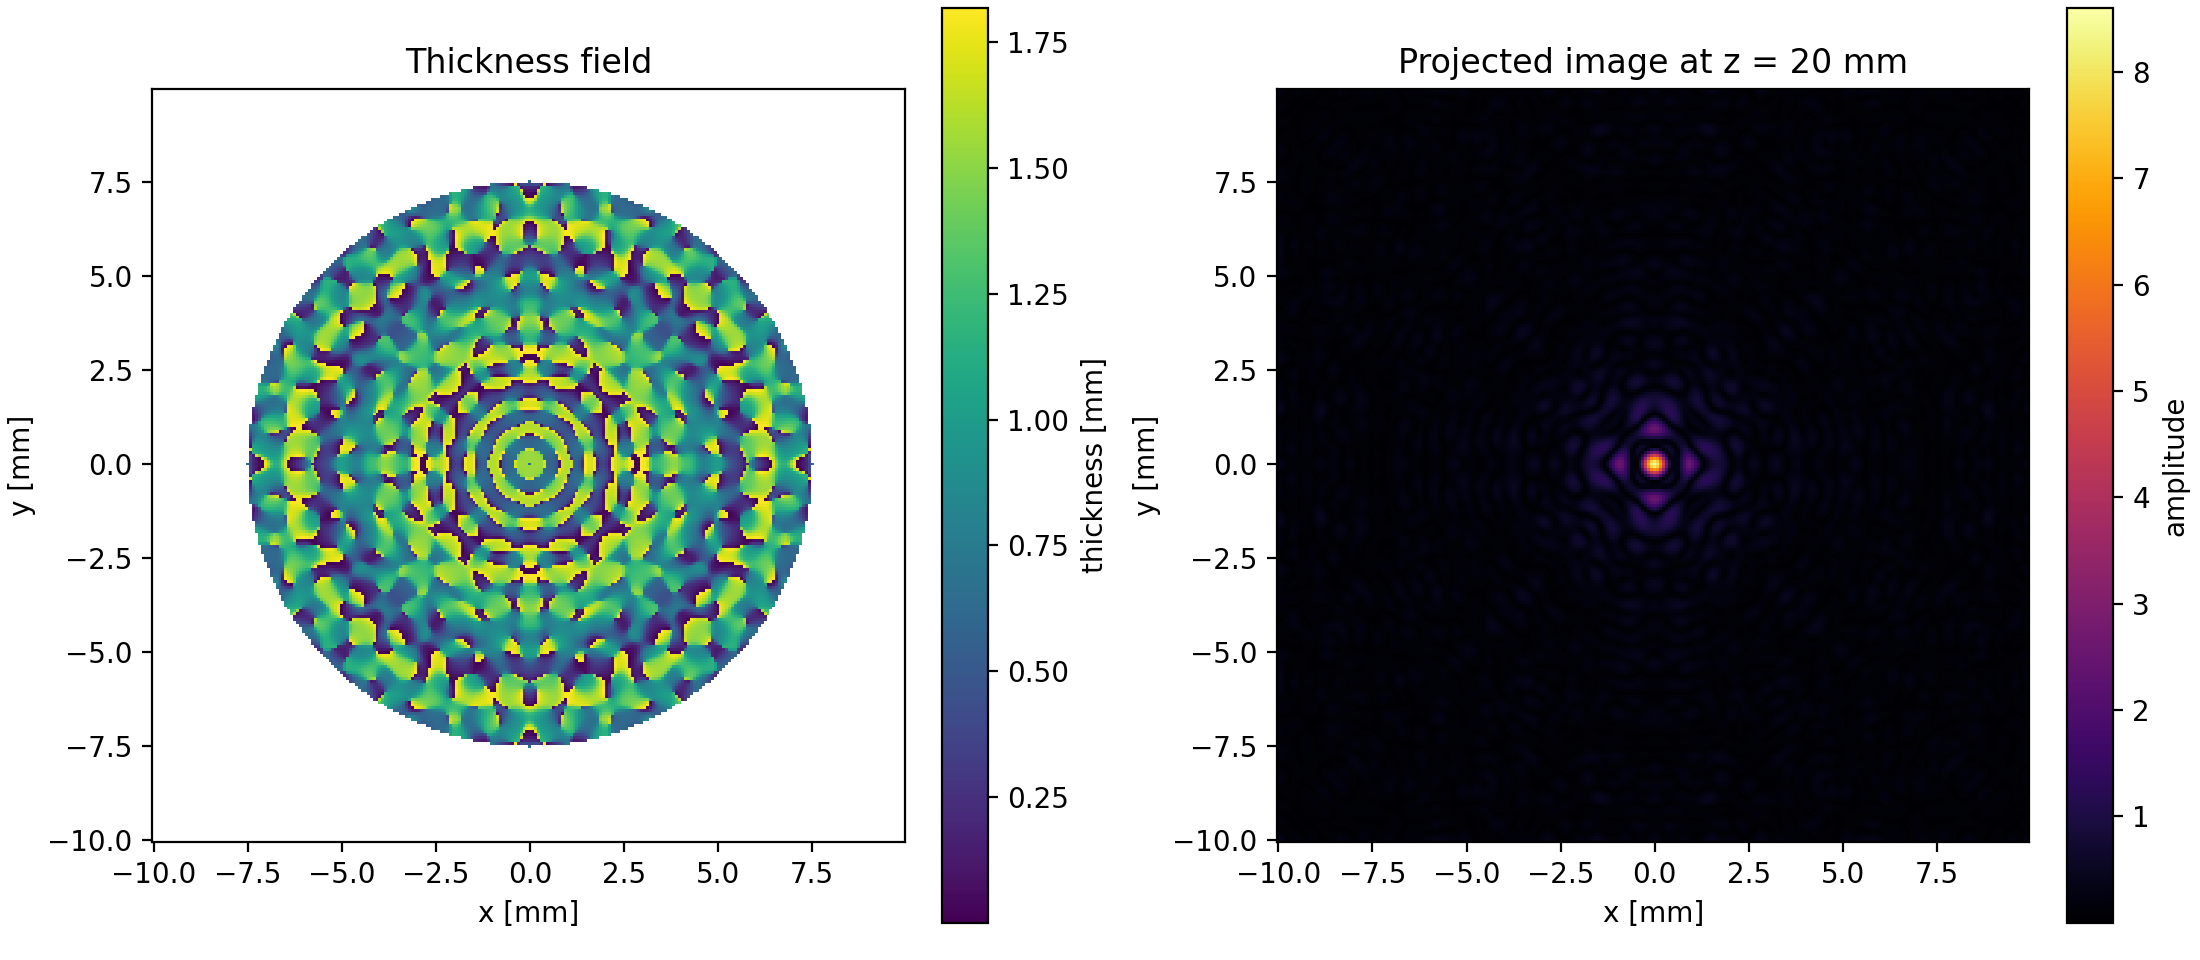
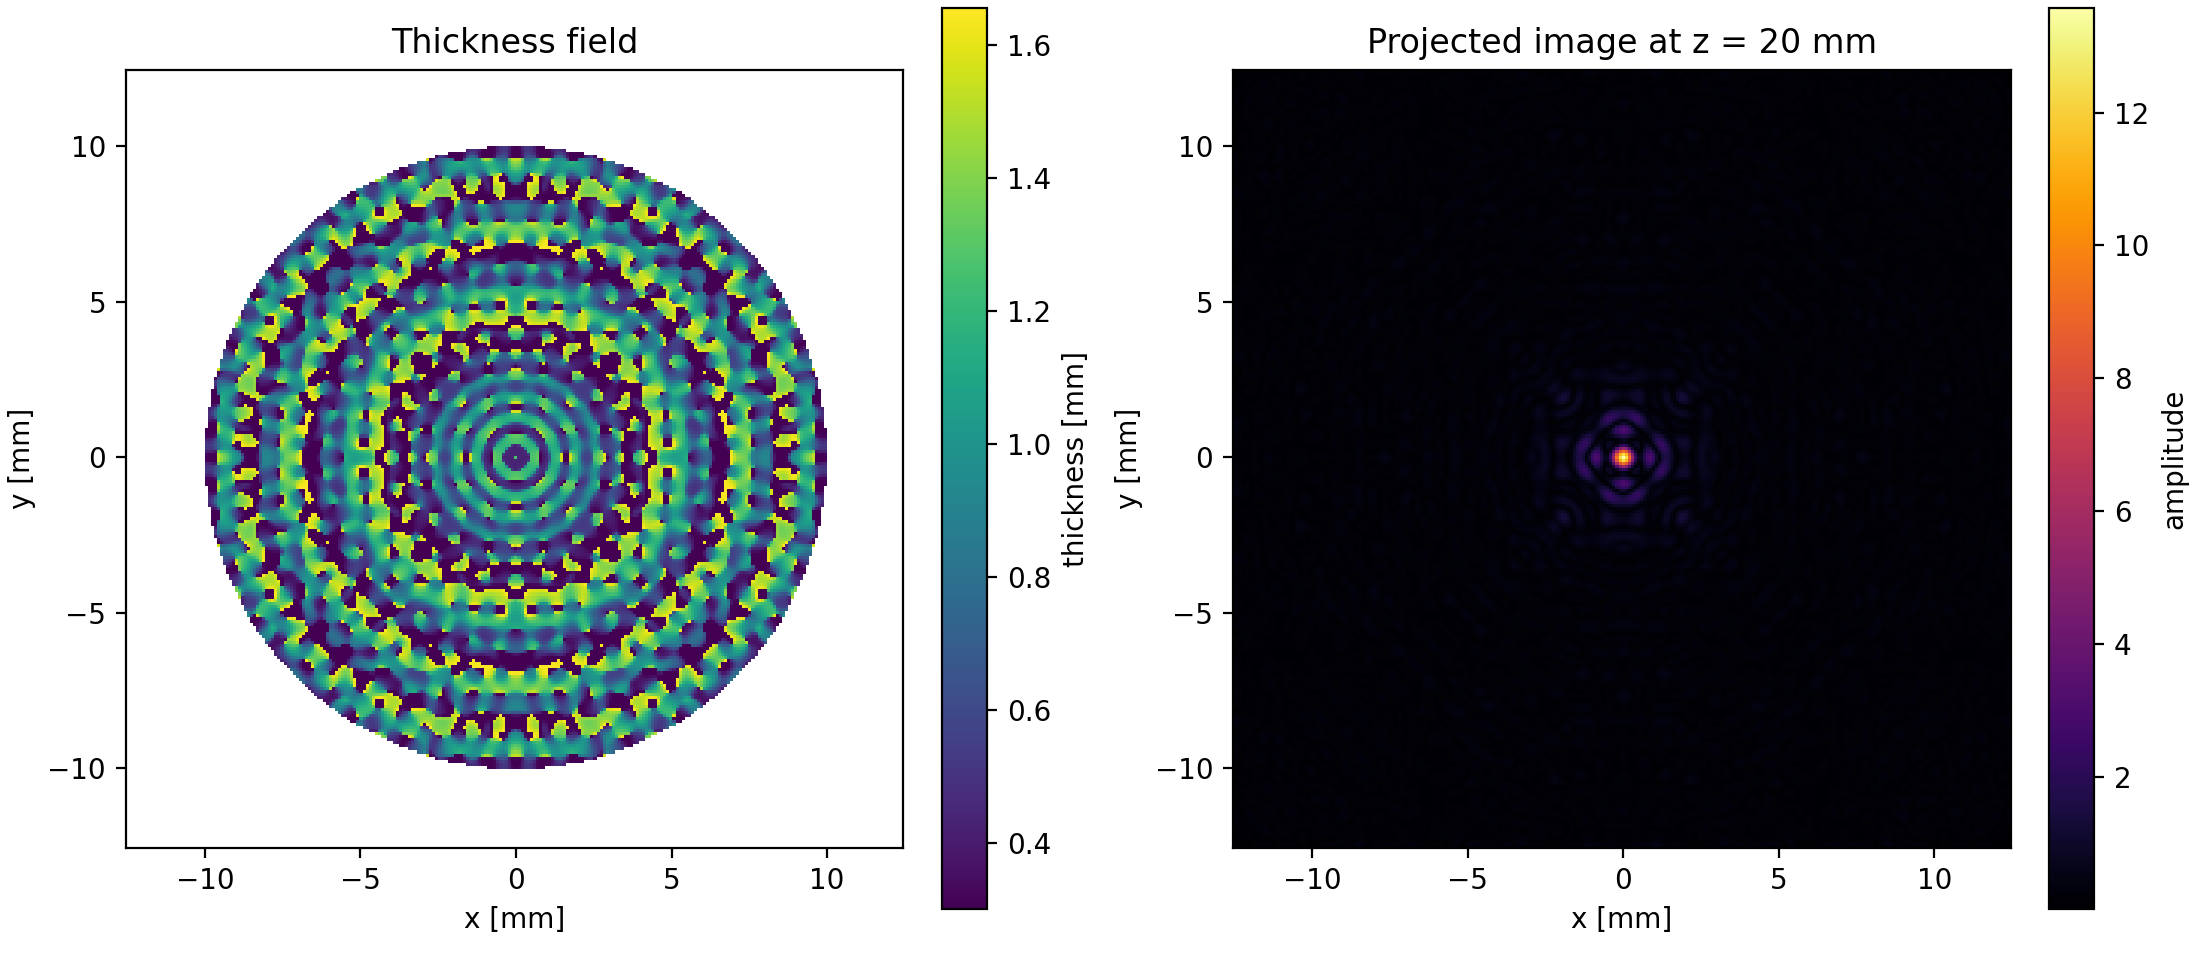
Updates

diff --git a/hologramGen.py b/hologramGen.py
@@ -57,6 +57,7 @@ def design_hologram_single_plane(
     km,
     actuator_radius,
     n_iter=300,
+    Tmin=0.4e-3,
     Tmax=3e-3,
 ):
     N = p0_amp.shape[0]
@@ -68,7 +69,7 @@ def design_hologram_single_plane(
     p_in = actuator_mask.astype(np.complex128)
 
     T = np.zeros_like(p0_amp, dtype=float)
-    T[actuator_mask] = Tmax
+    T[actuator_mask] = Tmin
     T[~actuator_mask] = np.nan
 
     A_tgt = np.asarray(target_at_z, dtype=float)
@@ -96,14 +97,114 @@ def design_hologram_single_plane(
         dK = km - kh
         phase = np.angle(H_req)
         T = np.mod(phase, 2 * np.pi) / (dK + eps)
+        T[actuator_mask] = np.clip(T[actuator_mask], Tmin, Tmax)
         T[~actuator_mask] = np.nan
 
     return T, history
 
 
+def facet_normal(v1, v2, v3):
+    normal = np.cross(v2 - v1, v3 - v1)
+    norm = np.linalg.norm(normal)
+    if norm == 0:
+        return np.zeros(3)
+    return normal / norm
+
+
+def write_ascii_stl(path, triangles, solid_name="hologram"):
+    with open(path, "w", encoding="ascii") as f:
+        f.write(f"solid {solid_name}\n")
+        for tri in triangles:
+            v1, v2, v3 = tri
+            normal = facet_normal(v1, v2, v3)
+            f.write(
+                f"  facet normal {normal[0]:.9e} {normal[1]:.9e} {normal[2]:.9e}\n"
+            )
+            f.write("    outer loop\n")
+            for vertex in tri:
+                f.write(
+                    f"      vertex {vertex[0]:.9e} {vertex[1]:.9e} {vertex[2]:.9e}\n"
+                )
+            f.write("    endloop\n")
+            f.write("  endfacet\n")
+        f.write(f"endsolid {solid_name}\n")
+
+
+def export_hologram_stl(T, dx, output_path="hologram_output.stl"):
+    """
+    Export the circular hologram height field as a closed ASCII STL solid body.
+
+    STL coordinates are written in millimeters. NaN values in T are treated as
+    outside the printable hologram footprint. T is expected to already include
+    the physical base/minimum thickness.
+    """
+    height_mm = np.asarray(T, dtype=float) * 1e3
+    valid_vertices = np.isfinite(height_mm)
+    n = height_mm.shape[0]
+
+    x_mm = (np.arange(n) - n / 2) * dx * 1e3
+    y_mm = (np.arange(n) - n / 2) * dx * 1e3
+
+    top = np.zeros((n, n, 3), dtype=float)
+    bottom = np.zeros((n, n, 3), dtype=float)
+    for i, y in enumerate(y_mm):
+        for j, x in enumerate(x_mm):
+            z = height_mm[i, j] if valid_vertices[i, j] else 0.0
+            top[i, j] = (x, y, z)
+            bottom[i, j] = (x, y, 0.0)
+
+    valid_cells = (
+        valid_vertices[:-1, :-1]
+        & valid_vertices[1:, :-1]
+        & valid_vertices[:-1, 1:]
+        & valid_vertices[1:, 1:]
+    )
+
+    triangles = []
+    for i in range(n - 1):
+        for j in range(n - 1):
+            if not valid_cells[i, j]:
+                continue
+
+            tl = top[i, j]
+            tr = top[i, j + 1]
+            bl = top[i + 1, j]
+            br = top[i + 1, j + 1]
+            btl = bottom[i, j]
+            btr = bottom[i, j + 1]
+            bbl = bottom[i + 1, j]
+            bbr = bottom[i + 1, j + 1]
+
+            # Top surface, outward normal generally +z.
+            triangles.append((tl, tr, bl))
+            triangles.append((tr, br, bl))
+
+            # Flat bottom, outward normal -z.
+            triangles.append((btl, bbl, btr))
+            triangles.append((btr, bbl, bbr))
+
+            # Boundary walls. Each side is emitted only when its neighboring
+            # cell is outside the circular footprint, making a closed shell.
+            if i == 0 or not valid_cells[i - 1, j]:
+                triangles.append((tl, btl, tr))
+                triangles.append((tr, btl, btr))
+            if i == n - 2 or not valid_cells[i + 1, j]:
+                triangles.append((bl, br, bbl))
+                triangles.append((br, bbr, bbl))
+            if j == 0 or not valid_cells[i, j - 1]:
+                triangles.append((tl, bl, btl))
+                triangles.append((bl, bbl, btl))
+            if j == n - 2 or not valid_cells[i, j + 1]:
+                triangles.append((tr, btr, br))
+                triangles.append((br, btr, bbr))
+
+    write_ascii_stl(output_path, triangles)
+    return len(triangles)
+
+
 def main():
     N = 256
-    L = 0.02
+    L = 0.025
     dx = L / N
     x = (np.arange(N) - N / 2) * dx
     xv, yv = np.meshgrid(x, x, indexing="xy")
@@ -114,7 +215,7 @@ def main():
     lam_m = c_m / f
     km = 2 * np.pi / lam_m
 
-    c_h = 2400.0
+    c_h = 2550.0
     lam_h = c_h / f
     kh = 2 * np.pi / lam_h
 
@@ -123,7 +224,7 @@ def main():
     Zh = rho_h * c_h
     Zt = rho_t * 5900.0
 
-    actuator_radius = 7.5e-3
+    actuator_radius = 10e-3
     p0_amp = np.zeros_like(r, dtype=float)
     p0_amp[r <= actuator_radius] = 1.0
 
@@ -144,15 +245,18 @@ def main():
         km=km,
         actuator_radius=actuator_radius,
         n_iter=300,
+        Tmin=0.3e-3,
         Tmax=3e-3,
     )
 
     p_in = p0_amp.astype(np.complex128)
     p_exit = apply_hologram(p_in, T, Zt, Zh, Zm, kh, km)
-    p_img = propagate_ASM(p_exit, dx=dx, lam=lam_m, z=z_target)
+    p_img = propagate_ASM(p_exit, dx=dx, lam=lam_m, z=z_target)#####
+    n_facets = export_hologram_stl(T, dx)
 
     print("Final amp MSE:", hist["amp_mse"][-1])
     print("Final amp corr:", hist["amp_corr"][-1])
+    print(f"Saved STL to hologram_output.stl ({n_facets} facets)")
 
     fig, axs = plt.subplots(1, 2, figsize=(11, 4.8), constrained_layout=True)
 
